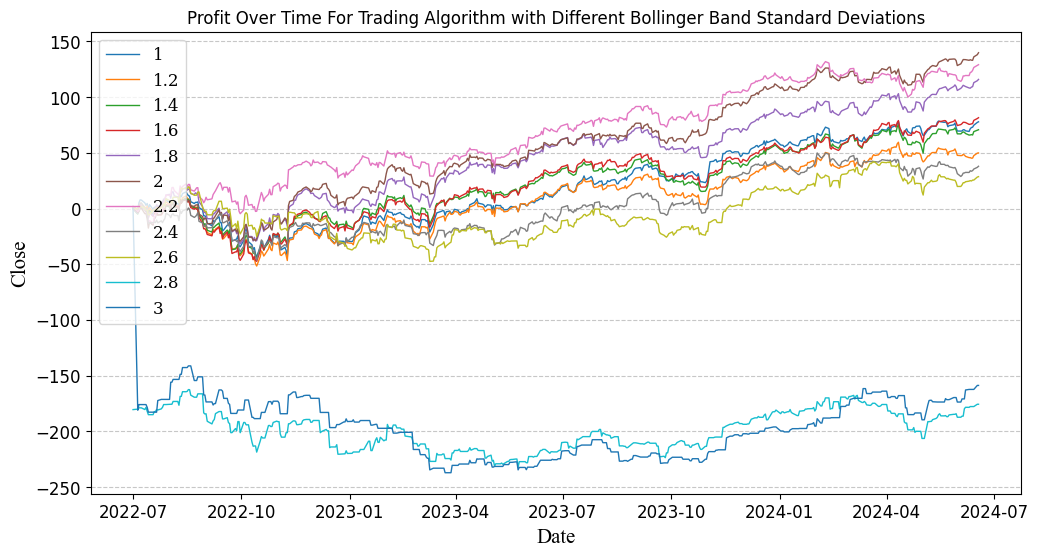
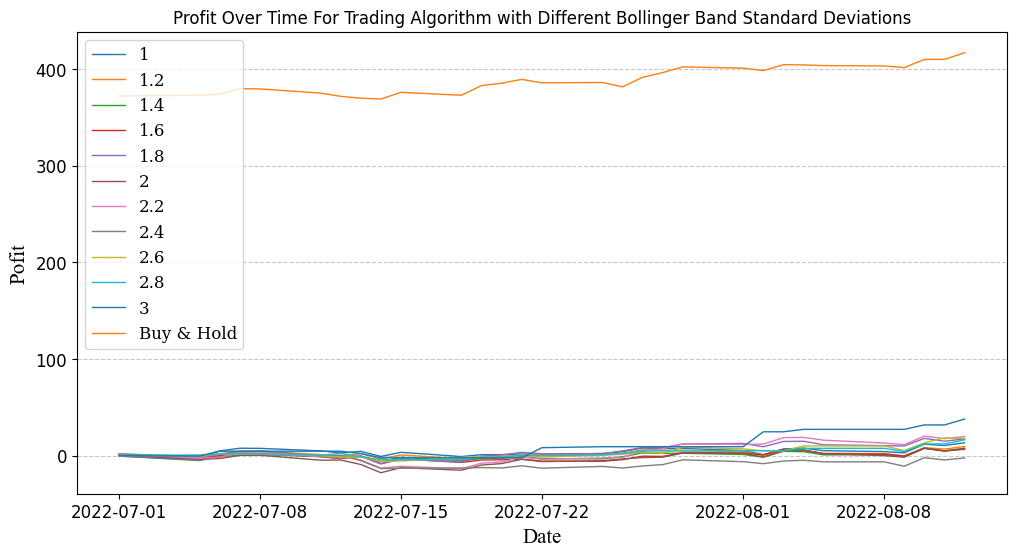
bug

diff --git a/Django_back_end/myapi/finance_tools/back_testing/back_testing.py b/Django_back_end/myapi/finance_tools/back_testing/back_testing.py
@@ -118,11 +118,11 @@ def plot(historical_data):
         break
 
 # Plot profits over time
-def plot_profit(dates, profits, close_prices):
+def plot_profit(dates, profits, buy_and_hold):
     plt.figure(figsize=(12, 6))
     for std_dev in profits:
         plt.plot(dates, profits[std_dev], linewidth=1, label=str(std_dev))
-    plt.plot(dates, close_prices, linewidth=1, label='Buy & Hold')
+    plt.plot(dates, buy_and_hold, linewidth=1, label='Buy & Hold')
     plt.title('Profit Over Time For Trading Algorithm with Different Bollinger Band Standard Deviations')
     plt.xlabel('Date', fontsize=15, fontname='Times New Roman')
     plt.ylabel('Pofit', fontsize=15, fontname='Times New Roman')
@@ -157,11 +157,11 @@ def backtest():
         current_position = 'Sold'
         bought_price = None
         dates = []
-        close_prices = []
+        buy_and_hold = []
         print(f'Testing std deviation: {std_dev}')
         
         # Test each day in the period
-        for date, group in (grouped):
+        for date, group in list(grouped)[:30]:
             start_profit = total_profit
             num_trades = 0
 
@@ -174,7 +174,7 @@ def backtest():
             # Update some variables on the last run
             if std_dev == std_devs[-1]:
                 dates.append(date)
-                close_prices.append(list(group['close'])[-1])
+                buy_and_hold.append(list(group['close'])[-1]-list(group['close'])[0])
             
             # Print the results
             elapsed_time = end_time - start_time
@@ -185,7 +185,7 @@ def backtest():
         print(f'\nTotal profit for std dev {std_dev}: {total_profit}')
     
     # Plot results
-    plot_profit(dates, profits, close_prices)
+    plot_profit(dates, profits, buy_and_hold)
 
 backtest()
         
